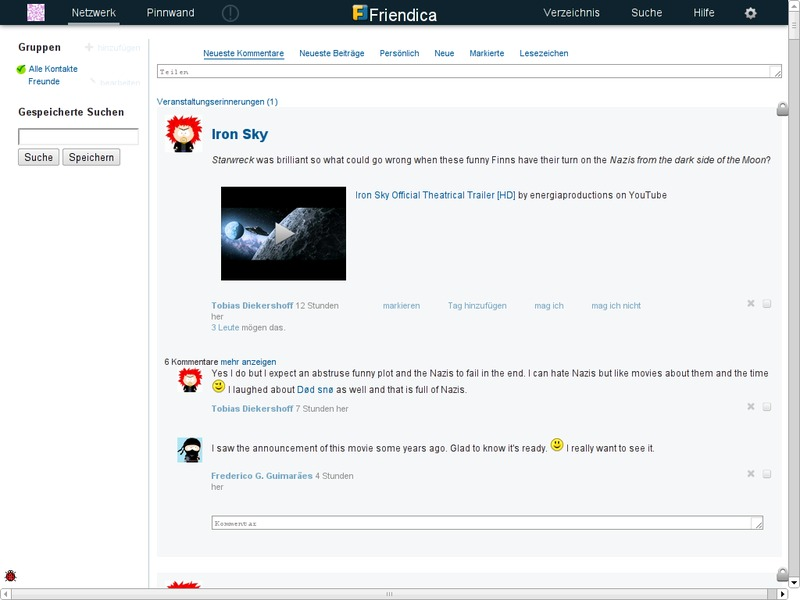
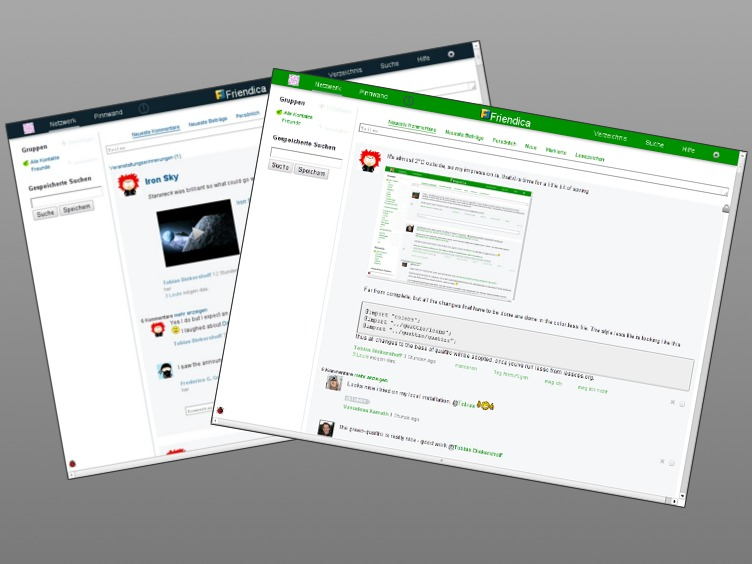
quattro: move quattro-green inside quattro folder. Add config option to select quattro color scheme.

diff --git a/view/theme/quattro/dark/style.css b/view/theme/quattro/dark/style.css
@@ -231,7 +231,8 @@ body {
 h4 {
   font-size: 1.1em;
 }
-a, a:link {
+a,
+a:link {
   color: #005c94;
   text-decoration: none;
 }
@@ -449,7 +450,8 @@ nav #nav-site-linkmenu .menu-popup {
   right: 0px;
   left: auto;
 }
-nav #nav-notifications-linkmenu.on .icon.s22.notify, nav #nav-notifications-linkmenu.selected .icon.s22.notify {
+nav #nav-notifications-linkmenu.on .icon.s22.notify,
+nav #nav-notifications-linkmenu.selected .icon.s22.notify {
   background-image: url("../../../images/icons/22/notify_on.png");
 }
 nav #nav-apps-link.selected {
@@ -627,11 +629,15 @@ aside #profiles-menu {
   height: 48px;
 }
 /* group member */
-#contact-edit-drop-link, .mail-list-delete-wrapper, .group-delete-wrapper {
+#contact-edit-drop-link,
+.mail-list-delete-wrapper,
+.group-delete-wrapper {
   float: right;
   margin-right: 50px;
 }
-#contact-edit-drop-link .drophide, .mail-list-delete-wrapper .drophide, .group-delete-wrapper .drophide {
+#contact-edit-drop-link .drophide,
+.mail-list-delete-wrapper .drophide,
+.group-delete-wrapper .drophide {
   background-image: url('../../../images/icons/22/delete.png');
   display: block;
   width: 22px;
@@ -640,7 +646,9 @@ aside #profiles-menu {
   position: relative;
   top: -50px;
 }
-#contact-edit-drop-link .drop, .mail-list-delete-wrapper .drop, .group-delete-wrapper .drop {
+#contact-edit-drop-link .drop,
+.mail-list-delete-wrapper .drop,
+.group-delete-wrapper .drop {
   background-image: url('../../../images/icons/22/delete.png');
   display: block;
   width: 22px;
@@ -769,7 +777,8 @@ section {
   display: table;
   width: 780px;
 }
-.wall-item-container .wall-item-item, .wall-item-container .wall-item-bottom {
+.wall-item-container .wall-item-item,
+.wall-item-container .wall-item-bottom {
   display: table-row;
 }
 .wall-item-container .wall-item-bottom {
@@ -807,11 +816,13 @@ section {
 .wall-item-container .wall-item-content img {
   max-width: 710px;
 }
-.wall-item-container .wall-item-links, .wall-item-container .wall-item-actions {
+.wall-item-container .wall-item-links,
+.wall-item-container .wall-item-actions {
   display: table-cell;
   vertical-align: middle;
 }
-.wall-item-container .wall-item-links .icon, .wall-item-container .wall-item-actions .icon {
+.wall-item-container .wall-item-links .icon,
+.wall-item-container .wall-item-actions .icon {
   opacity: 0.5;
   -webkit-transition: all 0.2s ease-in-out;
   -moz-transition: all 0.2s ease-in-out;
@@ -819,7 +830,8 @@ section {
   -ms-transition: all 0.2s ease-in-out;
   transition: all 0.2s ease-in-out;
 }
-.wall-item-container .wall-item-links .icon:hover, .wall-item-container .wall-item-actions .icon:hover {
+.wall-item-container .wall-item-links .icon:hover,
+.wall-item-container .wall-item-actions .icon:hover {
   opacity: 1;
   -webkit-transition: all 0.2s ease-in-out;
   -moz-transition: all 0.2s ease-in-out;
@@ -944,9 +956,6 @@ section {
   opacity: 0.5;
 }
 .wwto {
-  position: absolute !important;
-  width: 25px;
-  height: 25px;
   background: #FFFFFF;
   border: 2px solid #364e59;
   height: 25px;
@@ -1164,7 +1173,9 @@ section {
     height: 18px;
 }*/
 /** acl **/
-#photo-edit-perms-select, #photos-upload-permissions-wrapper, #profile-jot-acl-wrapper {
+#photo-edit-perms-select,
+#photos-upload-permissions-wrapper,
+#profile-jot-acl-wrapper {
   display: block!important;
 }
 #acl-wrapper {
@@ -1323,10 +1334,12 @@ ul.tabs li .active {
   float: left;
   width: 200px;
 }
-.field input, .field textarea {
+.field input,
+.field textarea {
   width: 400px;
 }
-.field input[type="checkbox"], .field input[type="radio"] {
+.field input[type="checkbox"],
+.field input[type="radio"] {
   width: auto;
 }
 .field textarea {

diff --git a/view/theme/quattro/green/style.css b/view/theme/quattro/green/style.css
@@ -231,7 +231,8 @@ body {
 h4 {
   font-size: 1.1em;
 }
-a, a:link {
+a,
+a:link {
   color: #009100;
   text-decoration: none;
 }
@@ -449,7 +450,8 @@ nav #nav-site-linkmenu .menu-popup {
   right: 0px;
   left: auto;
 }
-nav #nav-notifications-linkmenu.on .icon.s22.notify, nav #nav-notifications-linkmenu.selected .icon.s22.notify {
+nav #nav-notifications-linkmenu.on .icon.s22.notify,
+nav #nav-notifications-linkmenu.selected .icon.s22.notify {
   background-image: url("../../../images/icons/22/notify_on.png");
 }
 nav #nav-apps-link.selected {
@@ -627,11 +629,15 @@ aside #profiles-menu {
   height: 48px;
 }
 /* group member */
-#contact-edit-drop-link, .mail-list-delete-wrapper, .group-delete-wrapper {
+#contact-edit-drop-link,
+.mail-list-delete-wrapper,
+.group-delete-wrapper {
   float: right;
   margin-right: 50px;
 }
-#contact-edit-drop-link .drophide, .mail-list-delete-wrapper .drophide, .group-delete-wrapper .drophide {
+#contact-edit-drop-link .drophide,
+.mail-list-delete-wrapper .drophide,
+.group-delete-wrapper .drophide {
   background-image: url('../../../images/icons/22/delete.png');
   display: block;
   width: 22px;
@@ -640,7 +646,9 @@ aside #profiles-menu {
   position: relative;
   top: -50px;
 }
-#contact-edit-drop-link .drop, .mail-list-delete-wrapper .drop, .group-delete-wrapper .drop {
+#contact-edit-drop-link .drop,
+.mail-list-delete-wrapper .drop,
+.group-delete-wrapper .drop {
   background-image: url('../../../images/icons/22/delete.png');
   display: block;
   width: 22px;
@@ -769,7 +777,8 @@ section {
   display: table;
   width: 780px;
 }
-.wall-item-container .wall-item-item, .wall-item-container .wall-item-bottom {
+.wall-item-container .wall-item-item,
+.wall-item-container .wall-item-bottom {
   display: table-row;
 }
 .wall-item-container .wall-item-bottom {
@@ -807,11 +816,13 @@ section {
 .wall-item-container .wall-item-content img {
   max-width: 710px;
 }
-.wall-item-container .wall-item-links, .wall-item-container .wall-item-actions {
+.wall-item-container .wall-item-links,
+.wall-item-container .wall-item-actions {
   display: table-cell;
   vertical-align: middle;
 }
-.wall-item-container .wall-item-links .icon, .wall-item-container .wall-item-actions .icon {
+.wall-item-container .wall-item-links .icon,
+.wall-item-container .wall-item-actions .icon {
   opacity: 0.5;
   -webkit-transition: all 0.2s ease-in-out;
   -moz-transition: all 0.2s ease-in-out;
@@ -819,7 +830,8 @@ section {
   -ms-transition: all 0.2s ease-in-out;
   transition: all 0.2s ease-in-out;
 }
-.wall-item-container .wall-item-links .icon:hover, .wall-item-container .wall-item-actions .icon:hover {
+.wall-item-container .wall-item-links .icon:hover,
+.wall-item-container .wall-item-actions .icon:hover {
   opacity: 1;
   -webkit-transition: all 0.2s ease-in-out;
   -moz-transition: all 0.2s ease-in-out;
@@ -944,9 +956,6 @@ section {
   opacity: 0.5;
 }
 .wwto {
-  position: absolute !important;
-  width: 25px;
-  height: 25px;
   background: #FFFFFF;
   border: 2px solid #364e59;
   height: 25px;
@@ -1164,7 +1173,9 @@ section {
     height: 18px;
 }*/
 /** acl **/
-#photo-edit-perms-select, #photos-upload-permissions-wrapper, #profile-jot-acl-wrapper {
+#photo-edit-perms-select,
+#photos-upload-permissions-wrapper,
+#profile-jot-acl-wrapper {
   display: block!important;
 }
 #acl-wrapper {
@@ -1323,10 +1334,12 @@ ul.tabs li .active {
   float: left;
   width: 200px;
 }
-.field input, .field textarea {
+.field input,
+.field textarea {
   width: 400px;
 }
-.field input[type="checkbox"], .field input[type="radio"] {
+.field input[type="checkbox"],
+.field input[type="radio"] {
   width: auto;
 }
 .field textarea {

diff --git a/view/theme/quattro/green/style.less b/view/theme/quattro/green/style.less
@@ -6,8 +6,8 @@
 // $ lessc style.less > style.css
 
 @import "colors";
-@import "../quattro/icons";
-@import "../quattro/quattro";
+@import "../icons";
+@import "../quattro";
 
 
 

diff --git a/view/theme/quattro/dark/style.less b/view/theme/quattro/dark/style.less
@@ -6,8 +6,8 @@
 // $ lessc style.less > style.css
 
 @import "colors";
-@import "icons";
-@import "quattro";
+@import "../icons";
+@import "../quattro";
 
 
 

diff --git a/view/theme/quattro/config.php b/view/theme/quattro/config.php
@@ -10,6 +10,11 @@ function theme_content(&$a){
 		return;		
 	
 	$align = get_pconfig(local_user(), 'quattro', 'align' );
+	$color = get_pconfig(local_user(), 'quattro', 'color' );
+	$colors = array(
+		"dark"=>"Quattro", 
+		"green"=>"Green"
+	);
 	
 	$t = file_get_contents( dirname(__file__). "/theme_settings.tpl" );
 	$o .= replace_macros($t, array(
@@ -17,6 +22,7 @@ function theme_content(&$a){
 		'$baseurl' => $a->get_baseurl(),
 		'$title' => t("Theme settings"),
 		'$align' => array('quattro_align', t('Alignment'), $align, '', array('left'=>t('Left'), 'center'=>t('Center'))),
+		'$color' => array('quattro_color', t('Color scheme'), $color, '', $colors),
 	));
 	return $o;
 }
@@ -24,8 +30,10 @@ function theme_content(&$a){
 function theme_post(&$a){
 	if(! local_user())
 		return;
+	
 	if (isset($_POST['quattro-settings-submit'])){
 		set_pconfig(local_user(), 'quattro', 'align', $_POST['quattro_align']);
+		set_pconfig(local_user(), 'quattro', 'color', $_POST['quattro_color']);
 	}
 }
 

diff --git a/view/theme/quattro/style.php b/view/theme/quattro/style.php
@@ -1,0 +1,9 @@
+<?php
+	$color = get_pconfig(local_user(), "quattro","color");
+	
+	if ($color===false) $color="dark";
+		
+	if (file_exists("$THEMEPATH/$color/style.css")){
+		echo file_get_contents("$THEMEPATH/$color/style.css");
+	}
+
